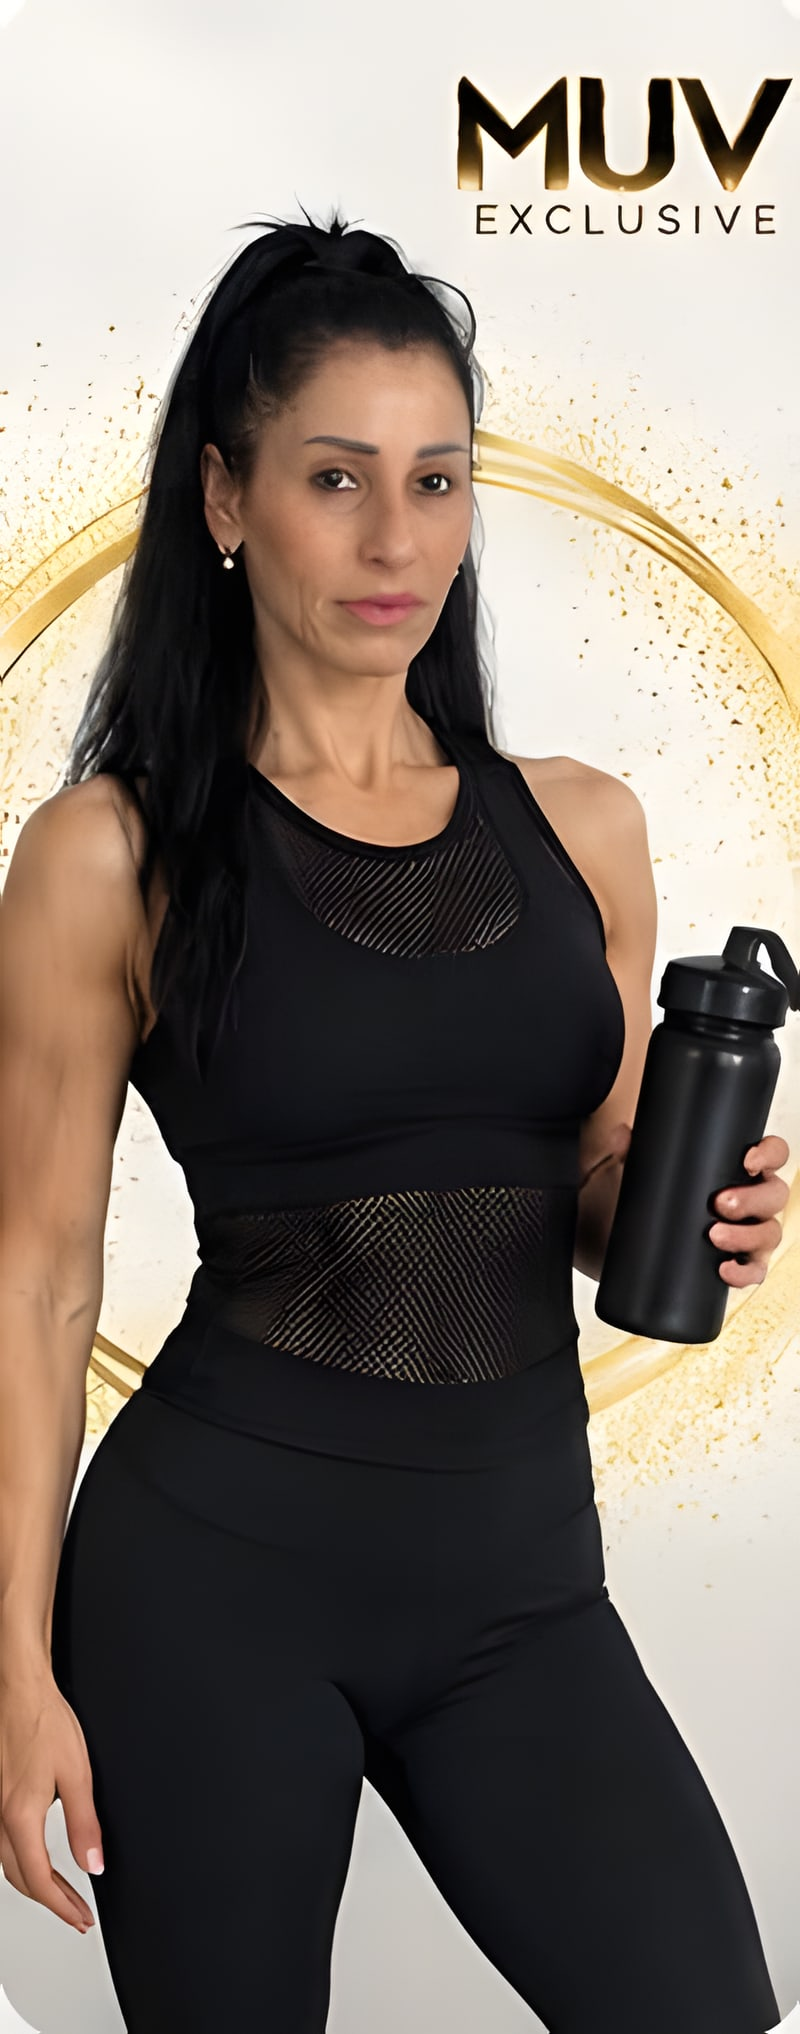
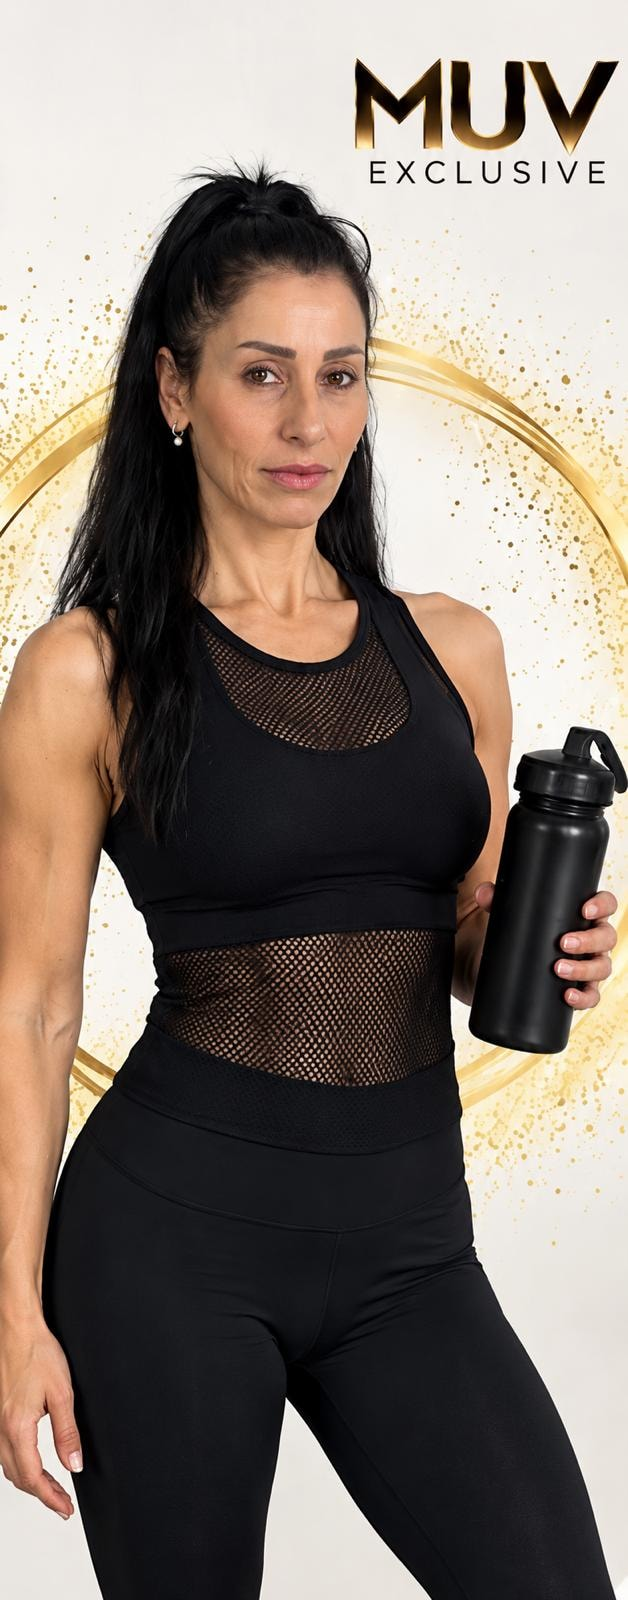
Use Valy's original photos, shown whole on her card and in the story panel
Claude-Session: https://claude.ai/code/session_01UbDPdupCN9T1aik4exseWh

diff --git a/resources/js/components/sections/TeamDialog.tsx b/resources/js/components/sections/TeamDialog.tsx
@@ -64,7 +64,7 @@ function Panel({ m, onClose }: { m: TeamMember; onClose: () => void }) {
                 </div>
 
                 <div className="flex-1 overflow-y-auto overscroll-contain px-6 pb-6 sm:px-10">
-                    {/* Photos: one, or a swipeable row when there are several; a monogram when there is none yet */}
+                    {/* Photos, whole and uncropped: one, or a swipeable row when there are several; a monogram when there is none yet */}
                     {m.photos.length === 0 && <Avatar name={m.name} compact className="h-56 w-full rounded-[1.4rem]" />}
                     <div className="no-scrollbar -mx-6 flex snap-x snap-mandatory gap-3 overflow-x-auto px-6 sm:-mx-10 sm:px-10">
                         {m.photos.map((p, i) => (
@@ -74,8 +74,7 @@ function Panel({ m, onClose }: { m: TeamMember; onClose: () => void }) {
                                 alt={`${m.name} — fotografie ${i + 1}`}
                                 loading={i === 0 ? 'eager' : 'lazy'}
                                 decoding="async"
-                                className={`h-72 shrink-0 snap-start rounded-[1.4rem] object-cover sm:h-80 ${m.photos.length > 1 ? 'w-[78%]' : 'w-full'}`}
-                                style={{ objectPosition: p.position ?? '50% 20%' }}
+                                className="h-[26rem] w-auto max-w-none shrink-0 snap-start rounded-[1.4rem] bg-sand sm:h-[30rem]"
                             />
                         ))}
                     </div>

diff --git a/resources/js/lib/site.ts b/resources/js/lib/site.ts
@@ -347,7 +347,7 @@ export const team: TeamMember[] = [
     role: "Instructor certificat Aerobic & Fitness",
     intro: "Cu peste 20 de ani de experiență în aerobic și fitness, Valy este pasionată de mișcare, sănătate și energia pe care sportul o aduce în viața de zi cu zi.",
     photos: [
-      { src: "/images/echipa/valy-cirstea.jpg", card: "/images/echipa/valy-cirstea-card.webp", position: "50% 0%" },
+      { src: "/images/echipa/valy-cirstea.jpg", card: "/images/echipa/valy-cirstea-card.webp", position: "50% 50%" },
       { src: "/images/echipa/valy-cirstea-2.jpg" },
     ],
     classes: ["Aerobic", "Fitness", "Tonifiere"],
